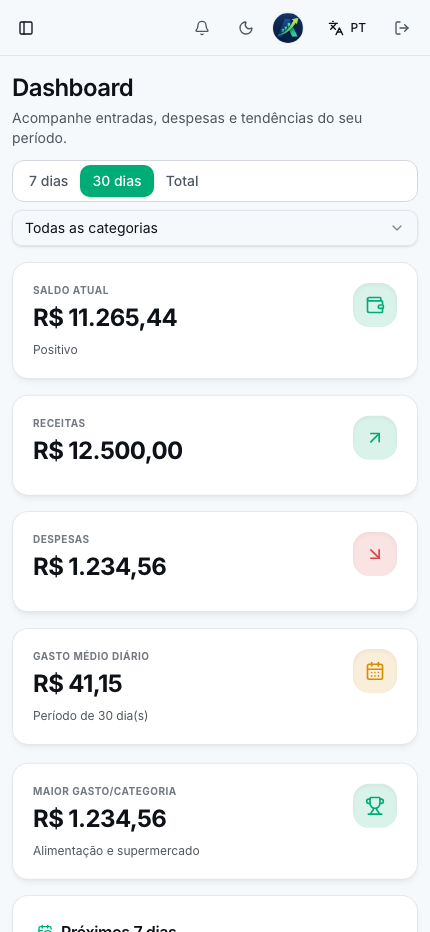
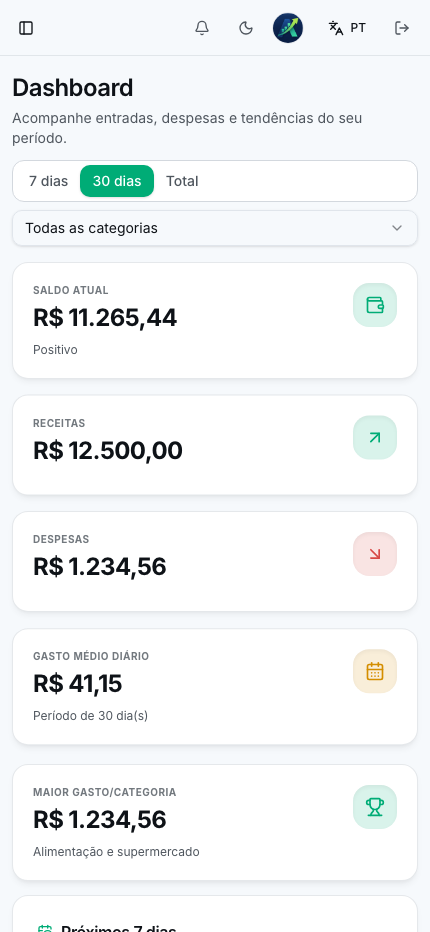
update

Changed region(s): [[0.0907, 0.8401, 0.4535, 0.9335], [0.8465, 0.8401, 0.907, 0.9024], [0.8465, 0.7157, 0.8767, 0.7468]]

diff --git a/src/routes/__root.tsx b/src/routes/__root.tsx
@@ -32,6 +32,7 @@ export const Route = createRootRoute({
     meta: [
       { charSet: "utf-8" },
       { name: "viewport", content: "width=device-width, initial-scale=1" },
+      { name: "apple-mobile-web-app-status-bar-style", content: "default" },
       { title: "AxisPay" },
       { name: "description", content: "AxisPay: track income, expenses, budgets and goals with smart insights." },
       { property: "og:title", content: "AxisPay" },
@@ -66,7 +67,7 @@ function RootShell({ children }: { children: React.ReactNode }) {
         <meta name="apple-mobile-web-app-capable" content="yes" />
         <meta name="mobile-web-app-capable" content="yes" />
         <meta name="apple-mobile-web-app-title" content="AxisPay" />
-        {/* Use the default system status bar instead of the translucent overlay mode. */}
+        {/* Route metadata opts into the photo status bar only on the opening screen. */}
         <HeadContent />
       </head>
       <body>

diff --git a/src/routes/auth.tsx b/src/routes/auth.tsx
@@ -48,6 +48,7 @@ export const Route = createFileRoute("/auth")({
   head: () => ({
     meta: [
       // Edge-to-edge photo rendering belongs to the opening screen only.
+      { name: "apple-mobile-web-app-status-bar-style", content: "black-translucent" },
       { name: "viewport", content: "width=device-width, initial-scale=1, viewport-fit=cover" },
       { name: "theme-color", content: "#0d0d0d" },
       { title: "AxisPay" },

diff --git a/docs/ios-header-clarity.md b/docs/ios-header-clarity.md
@@ -8,7 +8,7 @@ A comparação do histórico também confirmou que o commit `728cd28` (4 de nove
 
 Alterações:
 
-- Removida a opção `black-translucent` do shell HTML, válida tanto na abertura quanto nas páginas internas.
+- A configuração de barra de status agora é por rota: `default` nas páginas internas e `black-translucent` somente na abertura. A remoção indiscriminada anterior produziu uma faixa preta na captura do usuário; foi corrigida para permitir novamente a foto atrás da área de status na abertura.
 - Restaurado o viewport global anterior (`width=device-width, initial-scale=1`) e removidos os metadados globais de esquema escuro e cor preta. O `viewport-fit=cover` e o tema preto do splash agora pertencem exclusivamente à rota de autenticação.
 - Removido o fundo preto inline do documento; o canvas passa a seguir o tema, preservando as regras específicas da foto e do splash.
 - Somente abaixo de 768 px, o cabeçalho interno usa `sticky`, fundo opaco e isolamento de pintura, sem filtros, backdrop-filter ou sombra. Em tablet e computador, mantém a posição `relative` original.
@@ -21,10 +21,12 @@ Validação:
 - Confirmada uma única meta de viewport na abertura com `viewport-fit=cover` e uma única meta no dashboard com o viewport original, após navegação sem recarregar a página.
 - Resultado em `artifacts/responsive/ios-header-checks.json`. Capturas de teste usam `/logo.png` como avatar fictício; não são a foto real do usuário.
 - A renderização nativa da barra de status do iPhone instalado não pode ser comprovada nesses testes. É necessário reabrir e conferir no aparelho. O iOS pode conservar opções de apresentação definidas quando o atalho foi instalado.
-- Com a barra de status padrão, a fotografia continua preenchendo o viewport da página; a área do relógio/sinal é administrada pelo iOS e pode ficar fora dele.
+- A abertura solicita novamente a foto até a região do relógio/sinal; páginas internas usam a barra de status padrão. A renderização nativa exata ainda depende de conferência no aparelho.
 
 Referências primárias:
 
 - [Apple: Supported Meta Tags](https://developer.apple.com/library/archive/documentation/AppleApplications/Reference/SafariHTMLRef/Articles/MetaTags.html)
 - [WebKit 317153, comentário 2](https://bugs.webkit.org/show_bug.cgi?id=317153#c2)
 - [WebKit 316008: geometria e configuração de instalação de web apps](https://bugs.webkit.org/show_bug.cgi?id=316008)
+
+A correção da faixa preta foi verificada em SSR e após navegação: somente a abertura usa `viewport-fit=cover` e `black-translucent`; o dashboard retorna a viewport padrão e barra `default`. Resultado em `artifacts/responsive/opening-status-bar-checks.json`. Build e TypeScript passaram.
